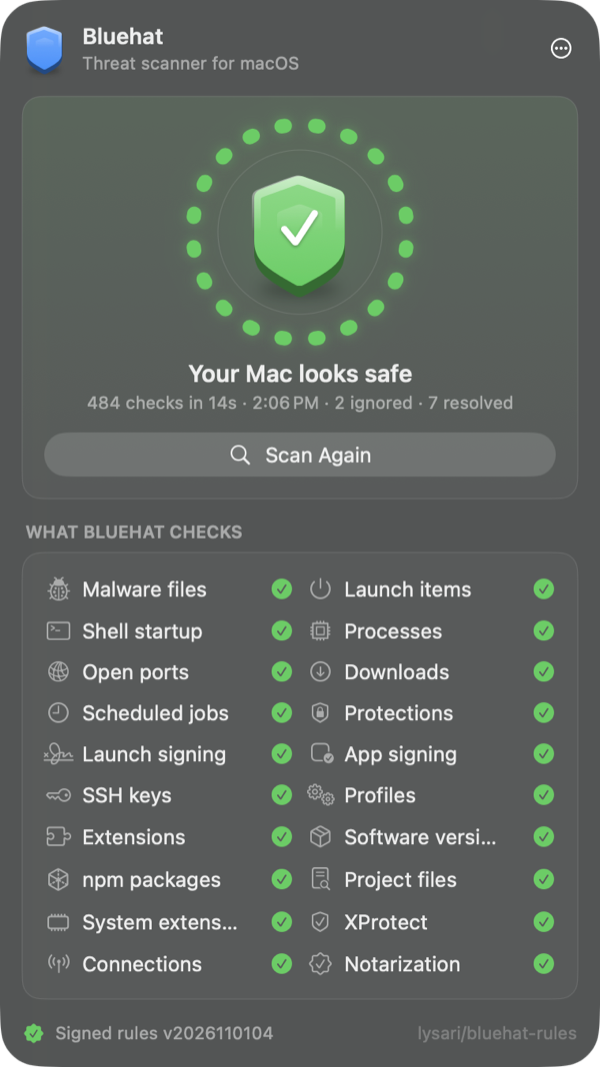
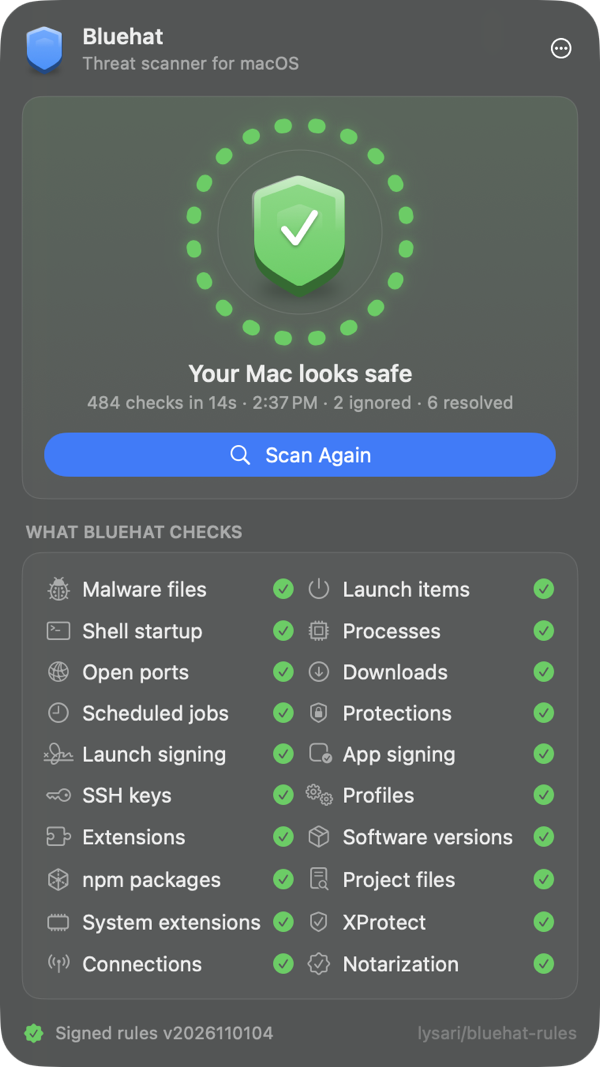
docs: retake hero, clean and menu bar screenshots

diff --git a/README.md b/README.md
@@ -29,7 +29,7 @@
 </p>
 
 <p align="center">
-  <img src="assets/readme/hero.png" width="760" alt="Bluehat panel after a scan: the scan ring with 7 issues, the 20 check areas, and a findings list with a shell startup line, a vulnerable Python, a hijacked chalk release and code hidden in tailwind.config.js">
+  <img src="assets/readme/hero.png" width="760" alt="Bluehat panel after a scan: the scan ring with 6 issues, the 20 check areas, and a findings list with a shell startup line, a vulnerable Python, a hijacked chalk release and code hidden in tailwind.config.js">
 </p>
 
 ---
@@ -84,7 +84,7 @@ run anything.
 
 | | |
 | --- | --- |
-| <img src="assets/readme/menubar.png" width="50" alt="Menu bar shield with 7 issues"> | **Menu bar count**: the shield shows scan progress, then the number of open issues. |
+| <img src="assets/readme/menubar.png" width="50" alt="Menu bar shield with 6 issues"> | **Menu bar count**: the shield shows scan progress, then the number of open issues. |
 | 🪟 **Floating panel** | One click on the shield opens the scan panel, which stays above other windows until you click again. |
 | 🔍 **Finding details** | What was found, why it matters, how to fix it, and source links for every finding. |
 | ✅ **Signed rules, daily feed** | Hand-written rules and a daily malware fingerprint feed, both verified with Ed25519 before use. |
